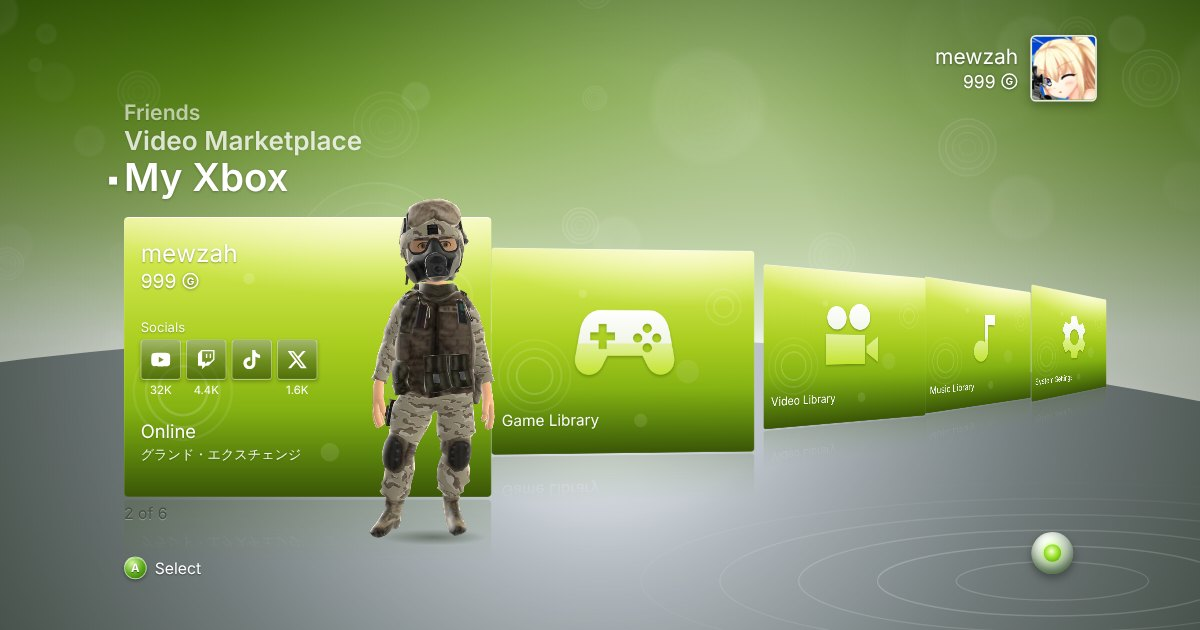
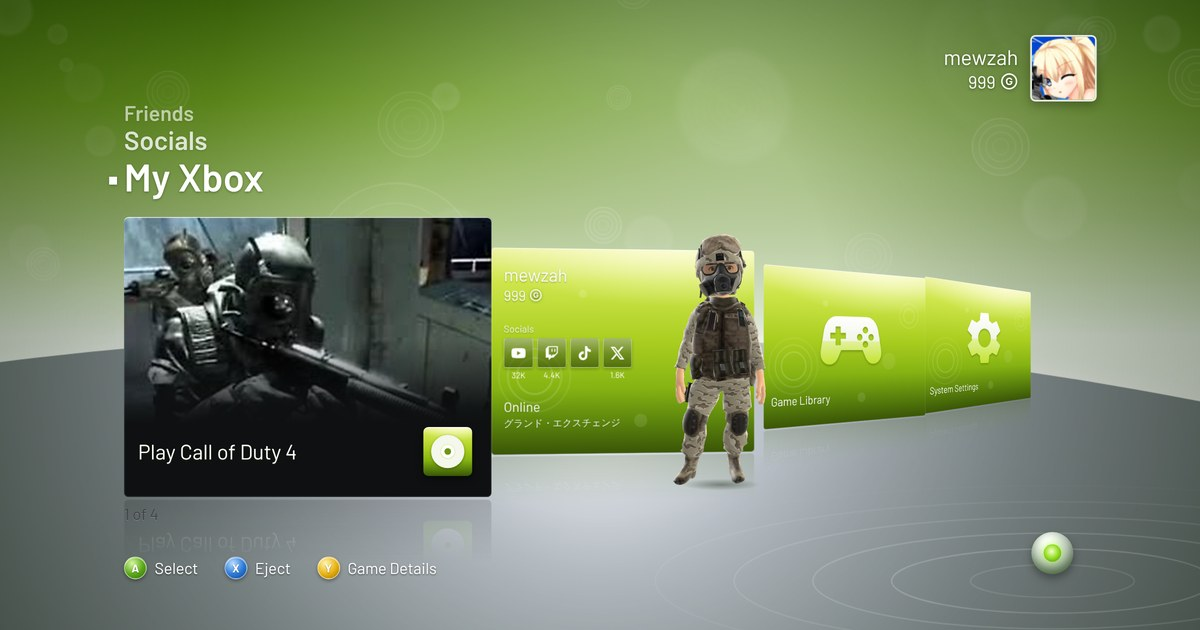
refresh the share preview image for the new layout
the old one still showed video marketplace and the video/music library tiles. the ?v=2 on og:image makes sites that cached the old picture fetch the new one.

Claude-Session: https://claude.ai/code/session_01JwB3xmWbpdCehwk2qvV6Wg

diff --git a/index.html b/index.html
@@ -12,7 +12,7 @@
     <meta property="og:description" content="mewzah's dashboard">
     <meta property="og:type" content="profile">
     <meta property="og:url" content="https://mewzah.tv/">
-    <meta property="og:image" content="https://mewzah.tv/assets/og.jpg">
+    <meta property="og:image" content="https://mewzah.tv/assets/og.jpg?v=2">
     <meta property="og:image:width" content="1200">
     <meta property="og:image:height" content="630">
     <meta name="twitter:card" content="summary_large_image">
